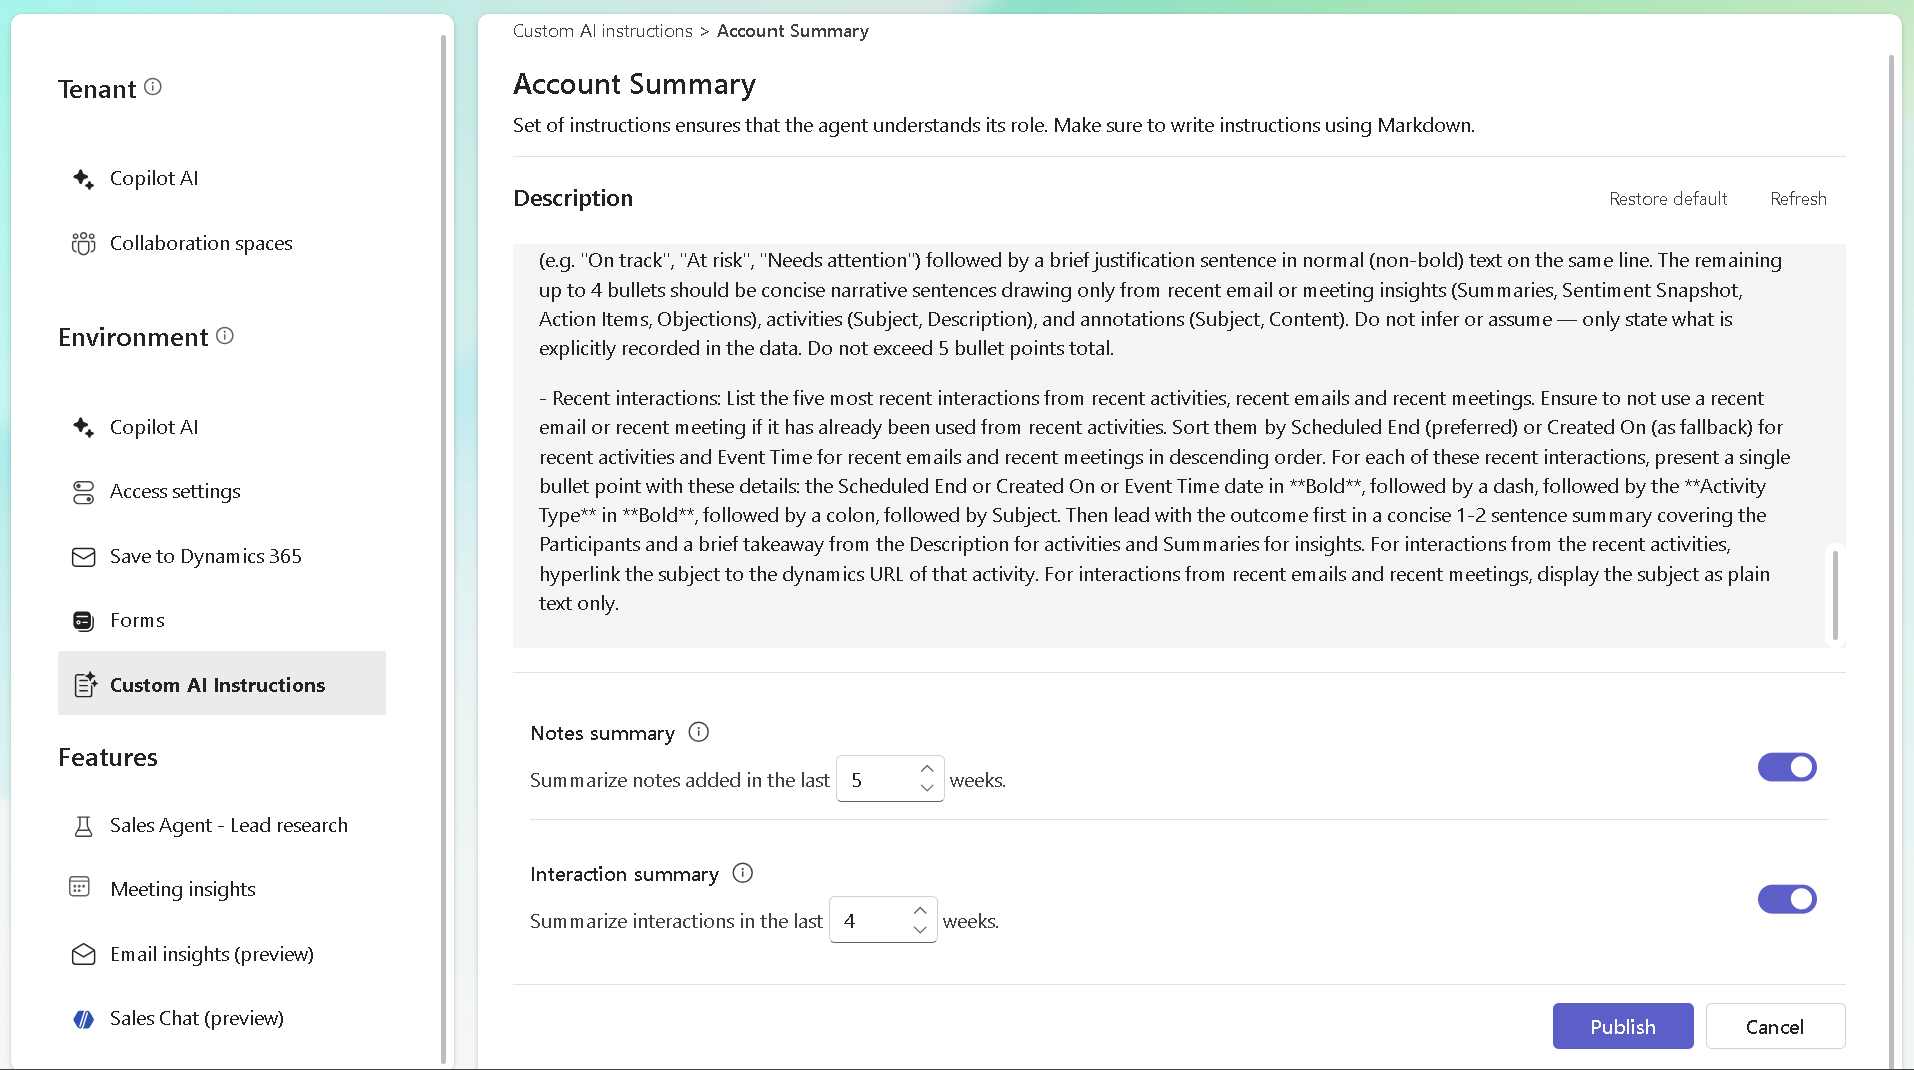
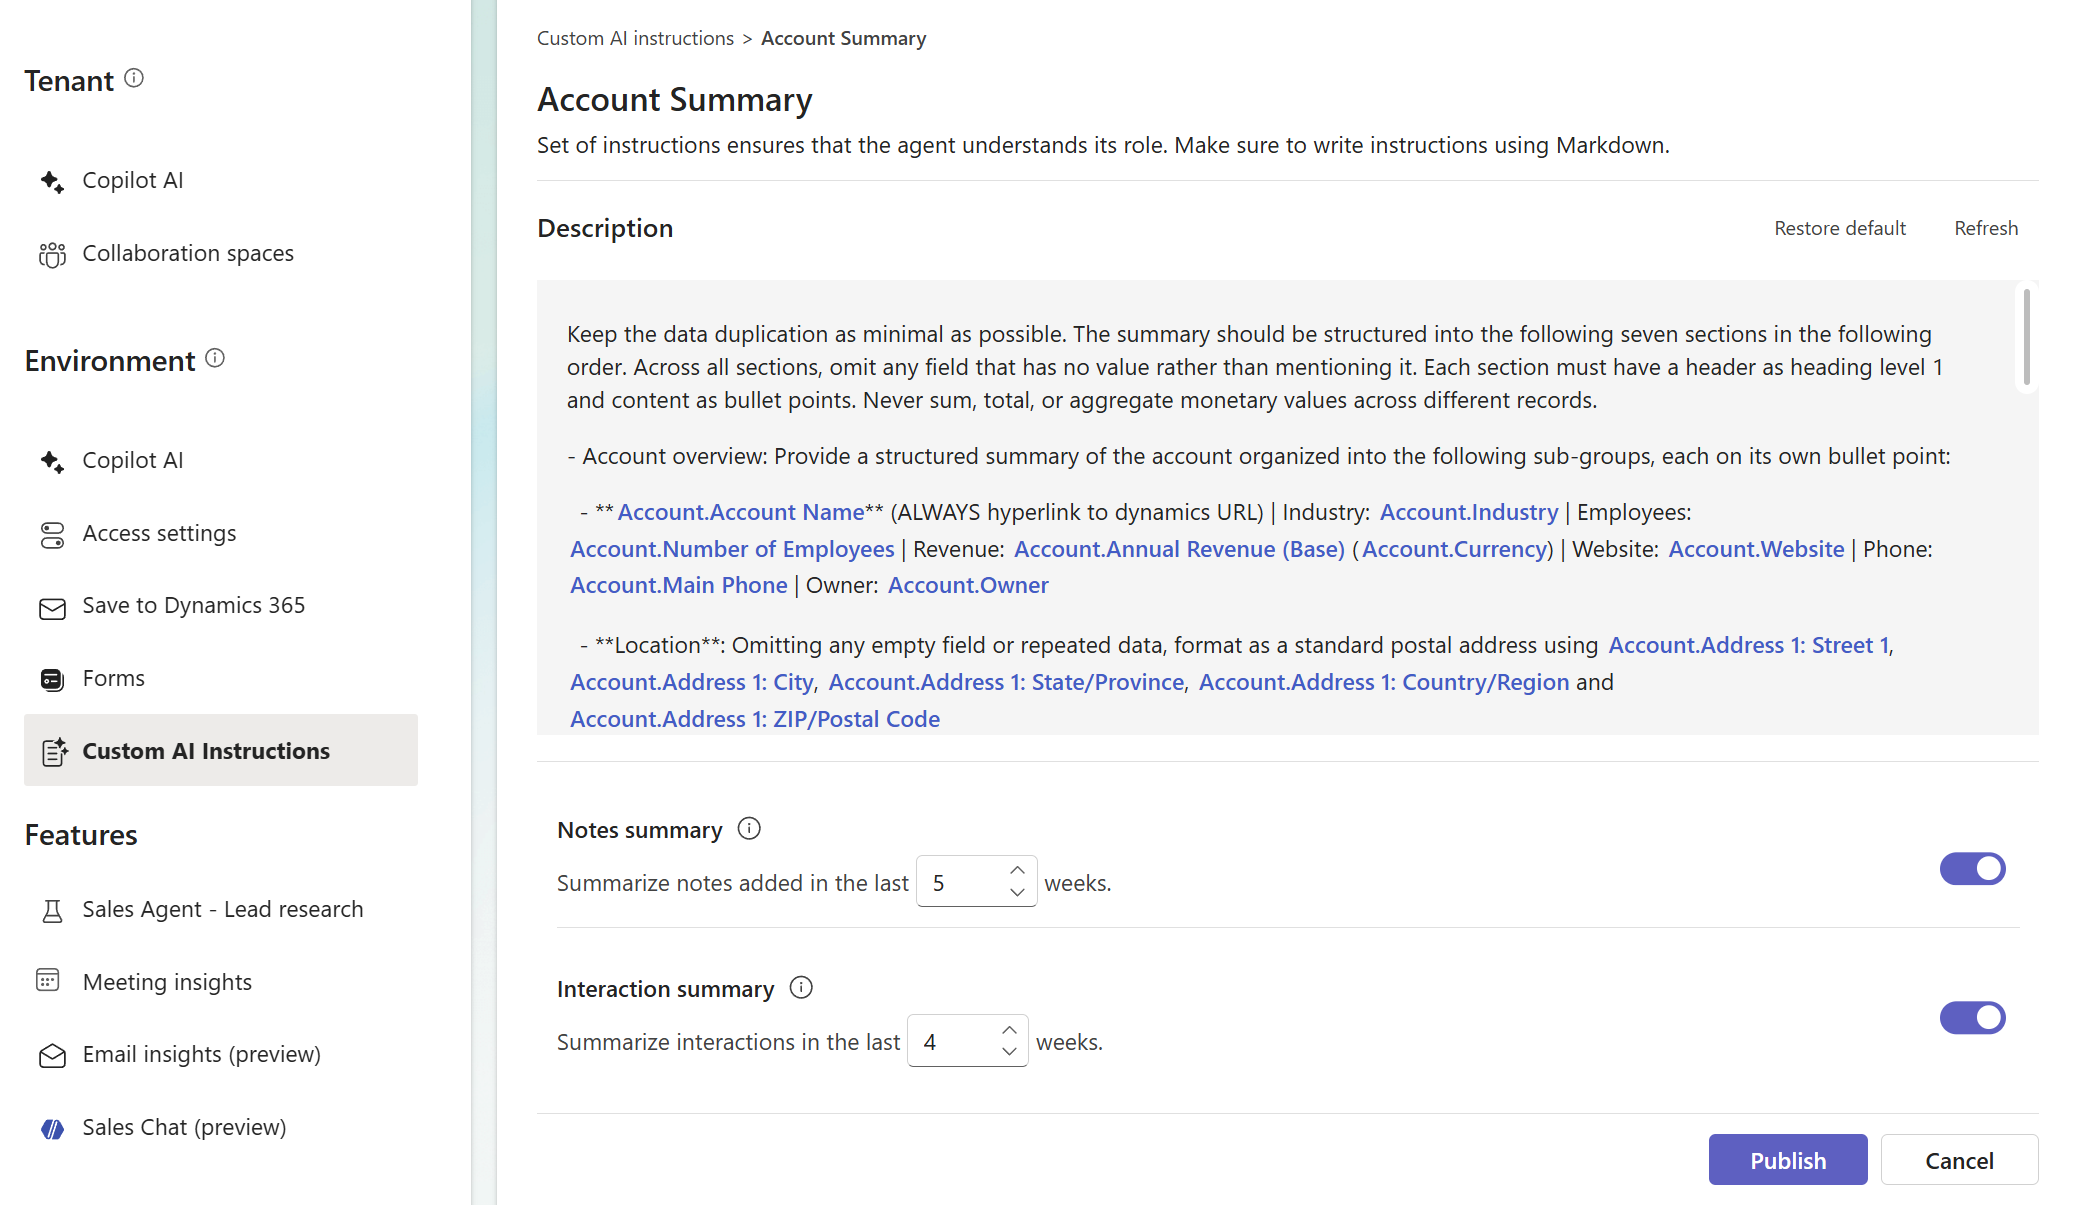
update as per feedback

diff --git a/articles/set-up-sales-chat.md b/articles/set-up-sales-chat.md
@@ -152,7 +152,7 @@ Glossary terms are not supported for Salesforce CRM currently.
 
 Sales reps can get a summary of their accounts and opportunities in Sales agent. To enable this feature, you need to configure the account and opportunity summary settings in the Sales agent admin settings.
 
-Sales agent generates account and opportunity summaries by using commonly used fields from the Account and Opportunity tables and natural language instructions that organize and present the information in a meaningful, useful format. You can [customize the AI instructions](#customize-ai-instructions) to include additional or different fields and tailor how the summary is curated to fit your organization's needs.
+Sales agent generates account and opportunity summaries by using commonly used fields and relationships from the Account and Opportunity tables and natural language instructions that organize and present the information in a meaningful, useful format. You can [customize the AI instructions](#customize-ai-instructions) to include additional or different fields and tailor how the summary is curated to fit your organization's needs.
 
 ### Customize AI instructions
 
@@ -164,11 +164,19 @@ Sales agent generates account and opportunity summaries by using commonly used f
 
 1. In the **Description** field, customize the default prompt to control how the summary is generated. You can:
    - Describe how to organize and present the information
-   - @mention specific field names to specify which fields to include in the summary
+   - @mention specific field names or views of related records to specify which fields or related records to include in the summary
    - Use natural language to provide curation instructions to the AI
-1. (Optional) Under **Notes summary** and **Interaction summary**, configure the number of weeks of content to include. By default, the summary includes content from the past 4 weeks. The maximum 12 weeks.
 
-    By default, these settings are turned on, and the summary includes notes and interactions from the past 4 weeks. If you want to exclude notes or interactions from the summary, turn off the respective setting.
+    > [!NOTE]
+    > - If you're connected to Dynamics 365, you can @mention:
+    >     - Records related to the account or opportunity through 1:N, N:1, or N:N relationship.
+    >     - Records related to a lookup field on the account or opportunity through 1:N, N:1, or N:N relationship.
+    > - If you're connected to Salesforce CRM, you can @mention:
+    >     - Records related to the account or opportunity through 1:N or N:1 relationship.
+    >     - Records related to a lookup field on the account or opportunity through 1:N or N:1 relationship.
+1. Under **Notes summary** and **Interaction summary**, configure the number of weeks of notes and interactions to include. By default, the summary includes data from the past 4 weeks. The maximum is 12 weeks.
+
+    By default, these settings are turned on. If you want to exclude notes or interactions from the summary, turn off the respective setting.
 
 1. Select **Publish**.
 

diff --git a/articles/use-sales-chat.md b/articles/use-sales-chat.md
@@ -46,9 +46,9 @@ For a list of example prompts you can use with the Sales agent, see [What can Sa
 > - When you access Sales agent from Dynamics 365, you are signed in to the same environment as your Dynamics 365 session.
 > - If you see the error that chat isn't set up to connect to your CRM, contact your administrator to [set up Sales agent](set-up-sales-chat.md). 
 
-## Get a summary of a CRM record
+## Get a summary of an account or opportunity
 
-You can use the Sales agent to get a summary of a CRM record, such as an account or opportunity, including key information, the pipeline, the three closest opportunities, and a summary of meetings from the last 30 days. For example, you can ask:
+You can use the Sales agent to get a summary of an account or opportunity, including key information, the pipeline, the three closest opportunities, and a summary of meetings from the last 30 days. For example, you can ask:
 - Get me the summary of account `<account name>`.
 - Get me the summary of opportunity `<opportunity name>`.
 - Give me an overview of account `<account name>`. Summarize the meetings in the last (x) months.

diff --git a/articles/sales-chat-overview.md b/articles/sales-chat-overview.md
@@ -35,7 +35,7 @@ You can use natural language with the Sales agent to query and get insights from
 
 Below are some example scenarios where you can use Sales agent, along with sample prompts for each.
 
-### Scenario 1: Become an expert on your CRM records
+### Scenario 1: Become an expert on your accounts and opportunities
 
 This scenario is ideal for users who:
 
